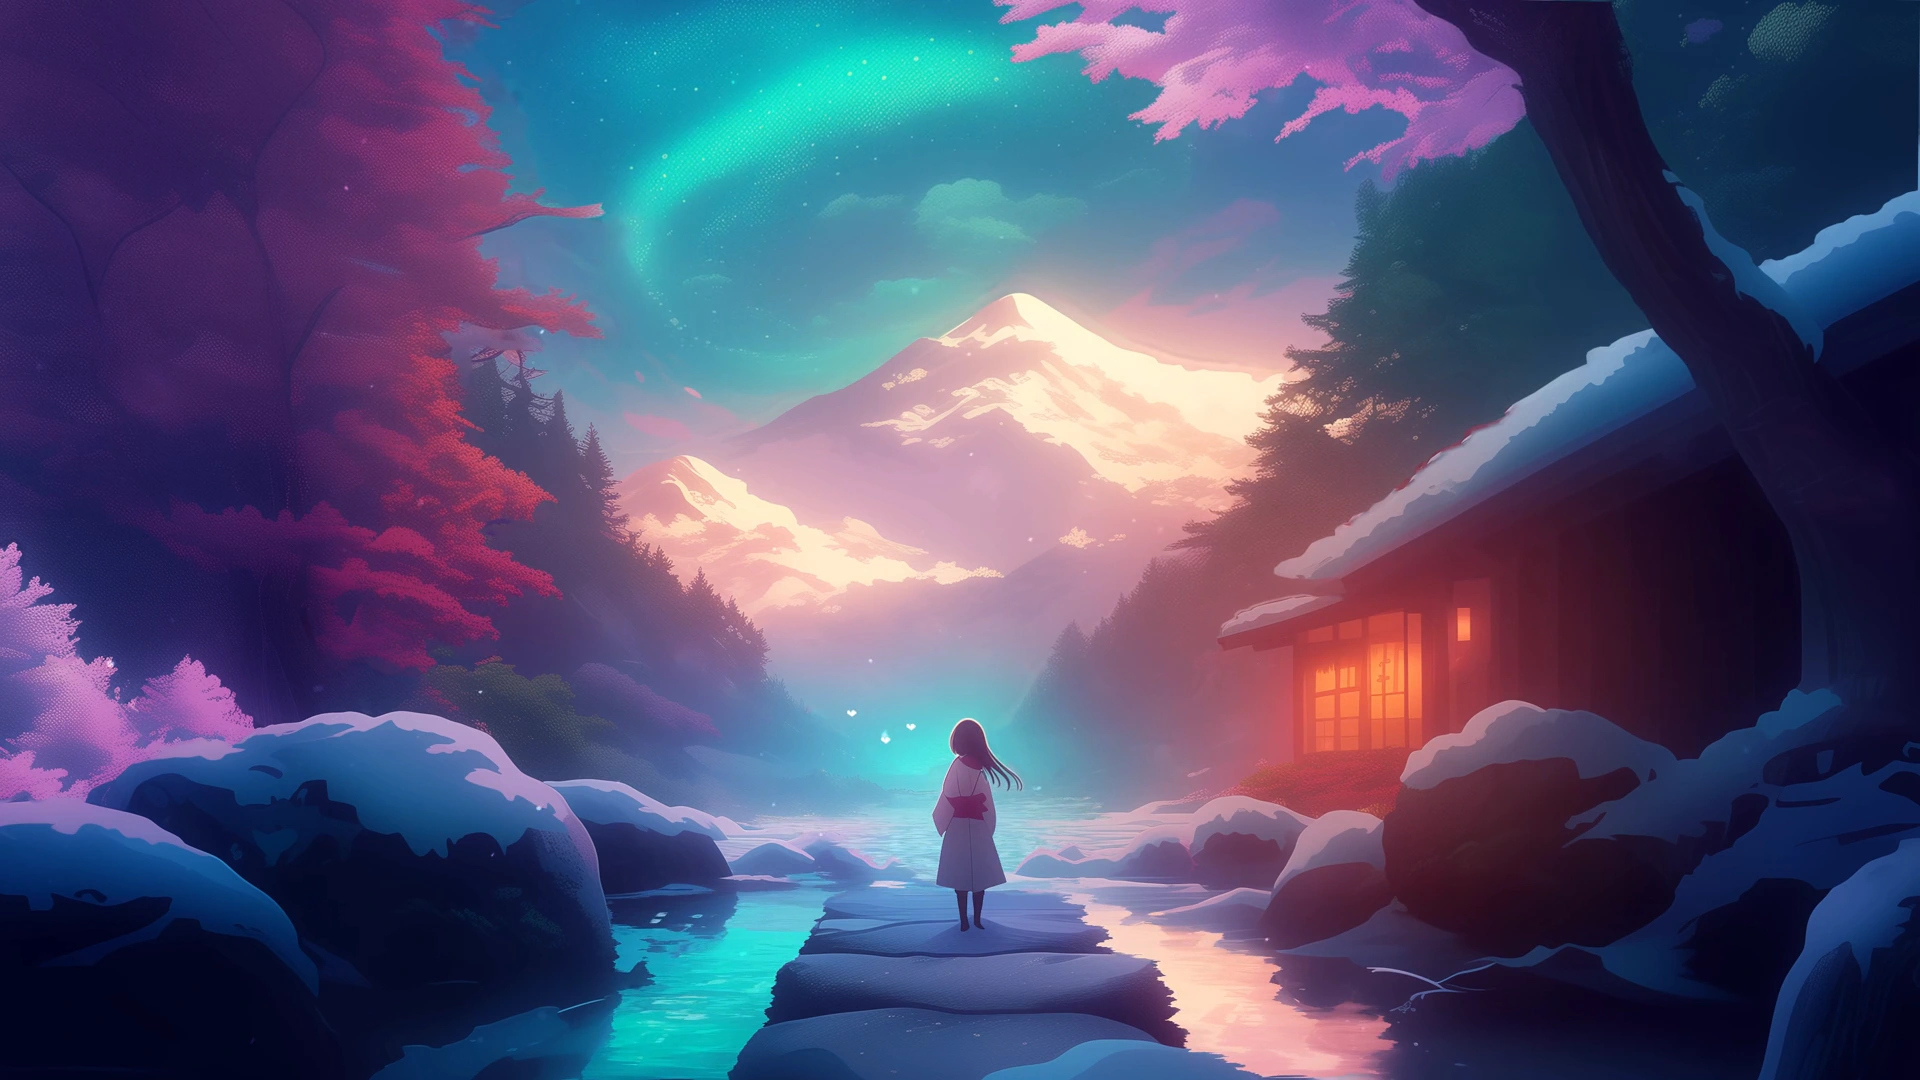
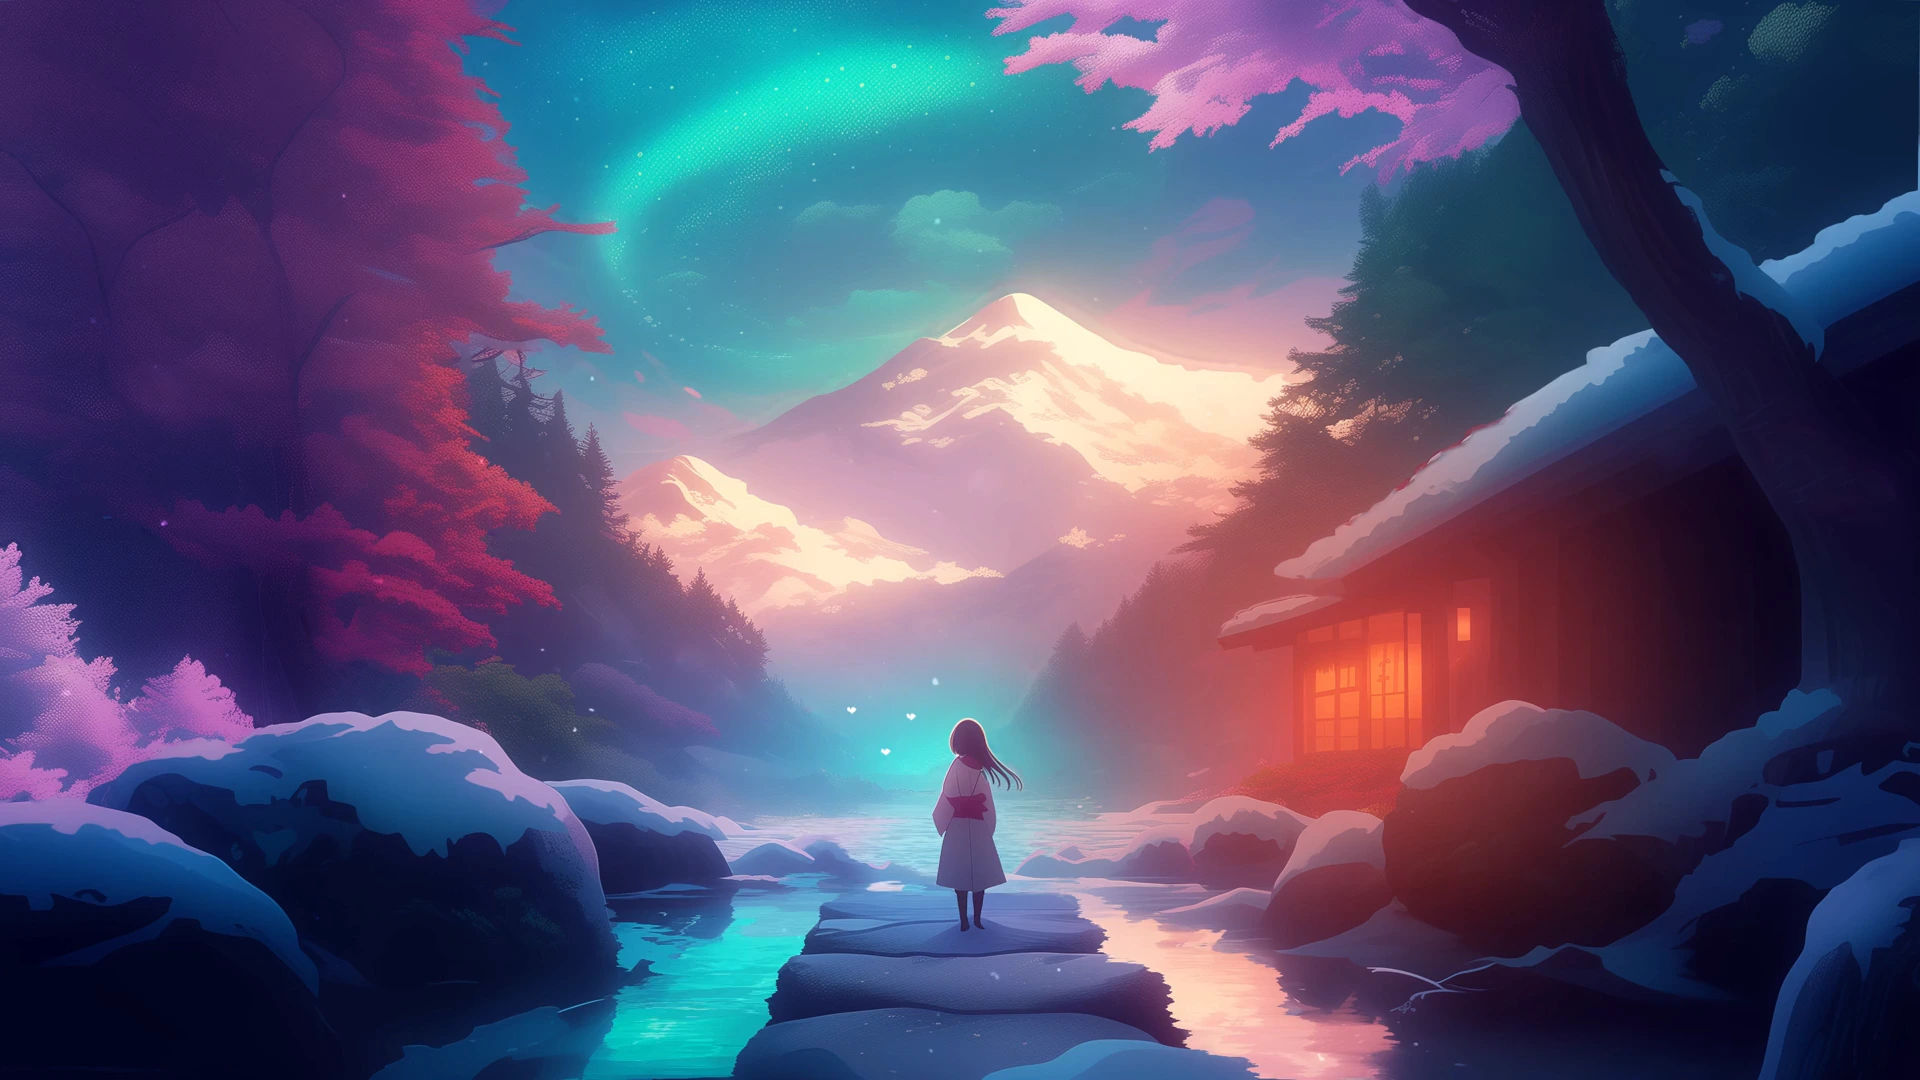
new media queries + good hero video poster href

diff --git a/styles/style.css b/styles/style.css
@@ -1516,6 +1516,19 @@ RESPONSIVE
 }
 
 
+
+@media (max-width: 1024px) {
+      .section-heading {
+        text-align: center;
+        margin-inline: auto;
+    }
+
+    .section-heading h1 {
+        transform: none;
+    }
+}
+
+
 /* ≤ 700px : Contact mobile fixes */
 
 @media (max-width: 700px) {
